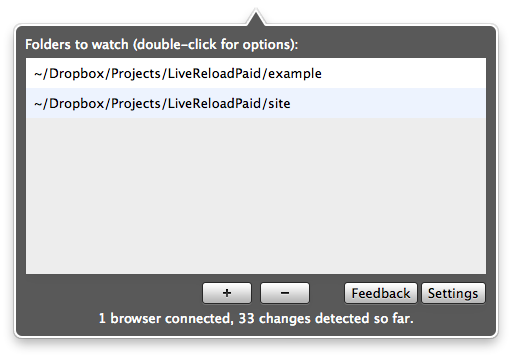
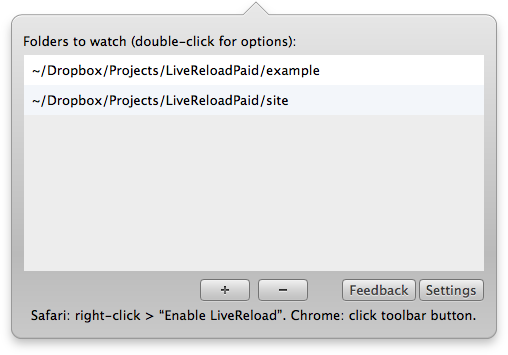
Update web site for 2.0a4

diff --git a/site/index.html b/site/index.html
@@ -54,7 +54,7 @@
   
   <section class="what-is-livereload">
     <div class="left">
-      <img src="screenshot.png" width="513" height="358">
+      <img src="screenshot.png" width="508" height="355">
     </div>
     <div class="right">
       <h2>What does LiveReload do?</h2>
@@ -76,7 +76,7 @@
   <section class="download-section">
     <a name="download"></a>
     <div class="left">
-      <h2><a href="LiveReload-2.0a3.zip" class="download">Download LiveReload 2.0 α3 for Mac</a></h2>
+      <h2><a href="LiveReload-2.0a4.zip" class="download">Download LiveReload 2.0 α4 for Mac</a></h2>
 
       <p>
         Requires OS X 10.6 Snow Leopard or later.
@@ -214,7 +214,19 @@
     <a name="news"></a>
     <div class="left">
       <h2>What's new in LiveReload?</h2>
-      
+
+      <h3>2.0α4</h3>
+
+      <ol>
+        <li>Correctly handles file names like style.css.sass and script.js.coffee.</li>
+        <li>Compatible with OS X 10.7 Lion.</li>
+        <li>Now using a grey background, black no more.</li>
+      </ol>
+
+      <p>
+        Perhaps you want to <a href="#download">download LR 2.0α4</a>?
+      </p>
+
       <h3>2.0α3</h3>
 
       <ol>
@@ -222,10 +234,6 @@
         <li>Updated the web site to suck less. Go ahead, explore it and tell me what you think.</li>
       </ol>
 
-      <p>
-        Perhaps you want to <a href="#download">download LR 2.0α3</a>?
-      </p>
-      
       <h3>2.0α2</h3>
       
       <ol>
